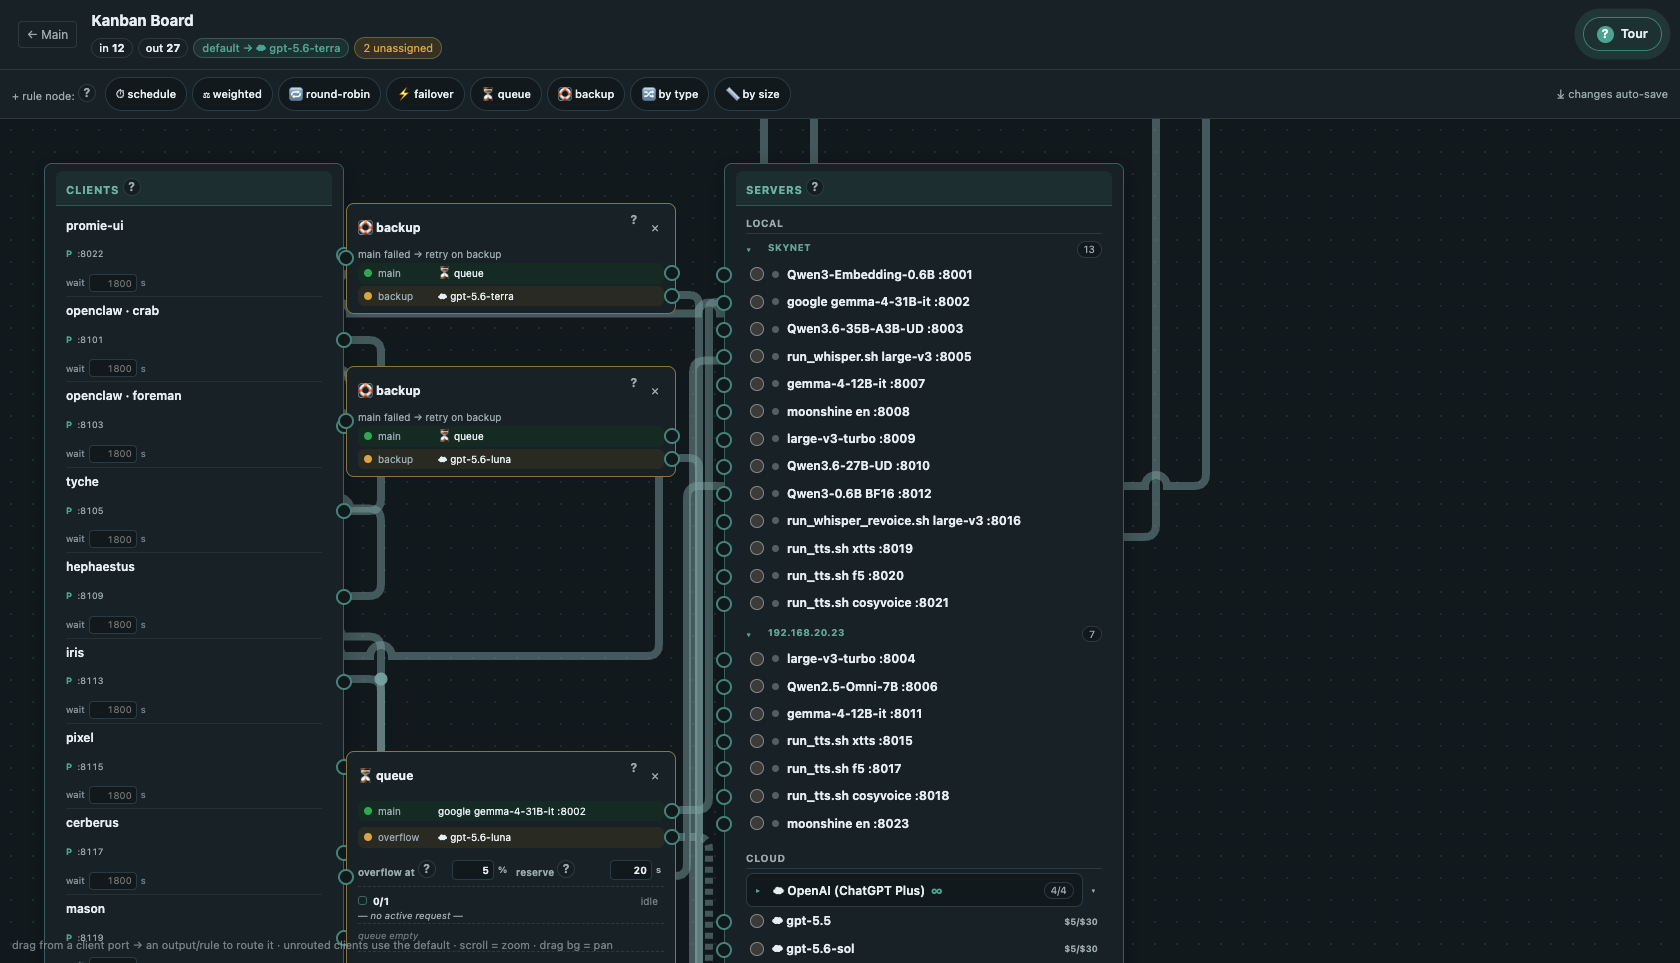
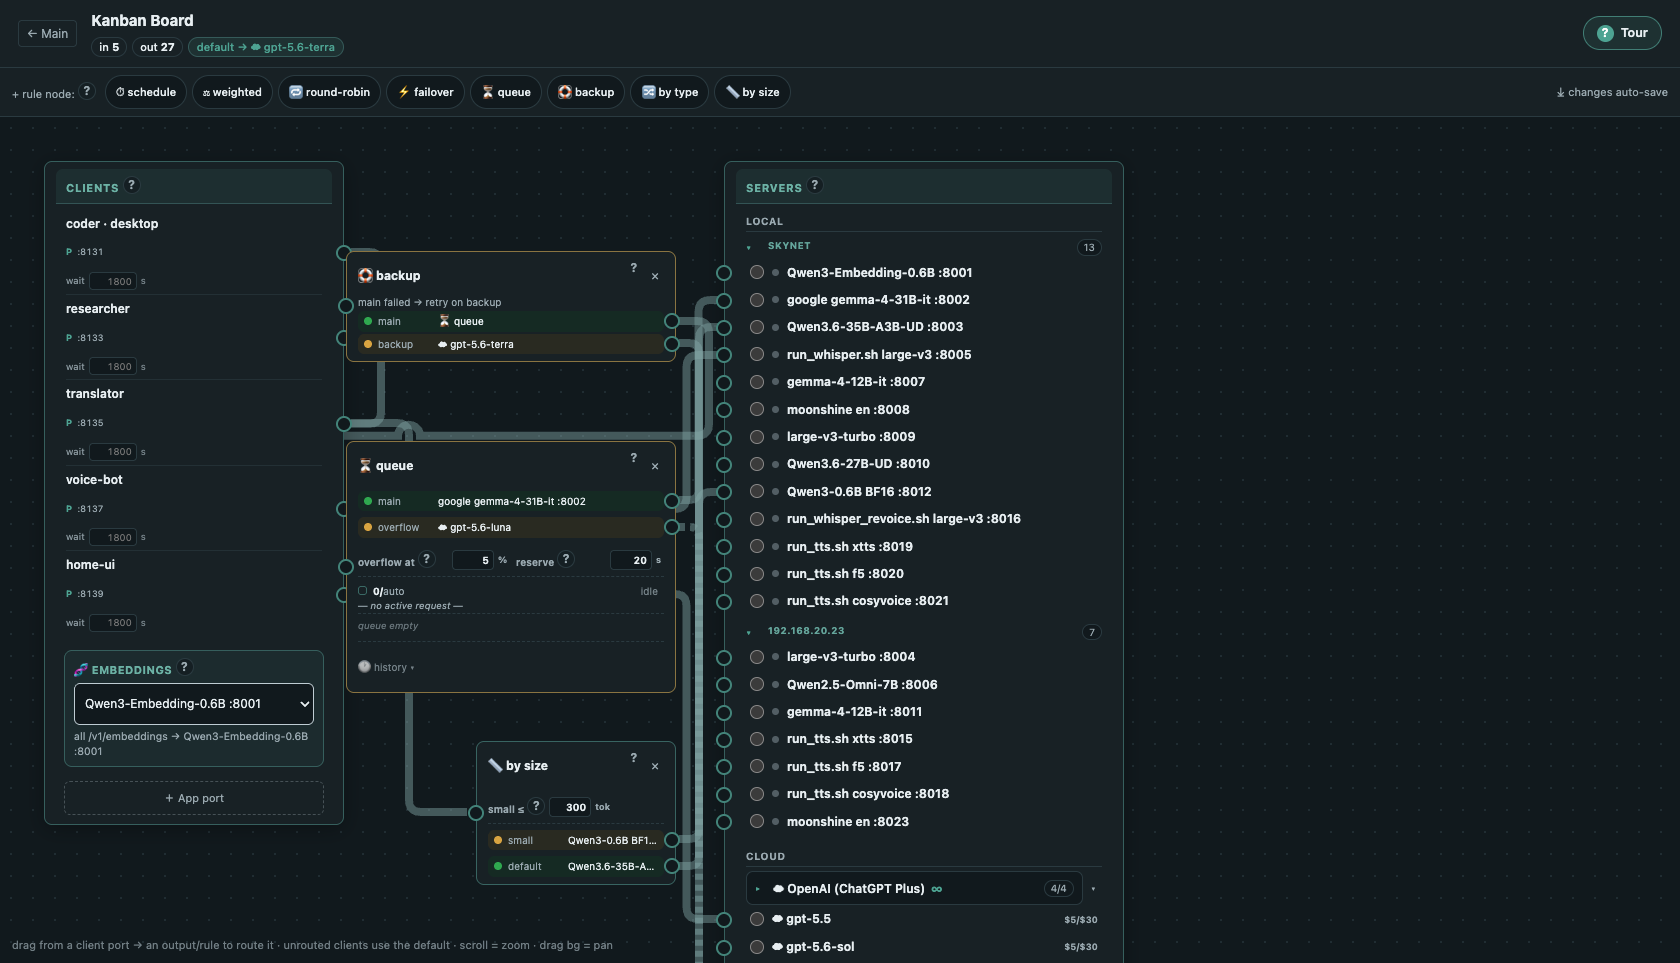
v1.3.104: staged example kanban for the README
The prod kanban screenshot carried twelve agents and twenty-seven outputs — an
unreadable first impression. Replaced with a staged compact fleet: five agents
(coder, researcher, translator, voice-bot, home-ui), backup + queue + by-size
rule nodes, local cells and cloud models as outputs.

diff --git a/caravan/__init__.py b/caravan/__init__.py
@@ -1,3 +1,3 @@
 """LAMA CARAVAN — fleet control plane for llama.cpp servers and AI agents."""
 
-__version__ = "1.3.103"
+__version__ = "1.3.104"

diff --git a/README.md b/README.md
@@ -148,8 +148,9 @@ border comet as its card on the board:
 
 ![Cell editor](docs/screenshots/editor.png)
 
-The routing kanban — agents on the left, rule nodes (schedule / queue /
-failover / backup / by-type / by-size) in the middle, local cells and cloud
+The routing kanban — a compact example fleet: agents on the left, rule nodes
+(backup / queue / by-size — schedule, weighted, round-robin, failover and
+by-type are one click away in the palette) in the middle, local cells and cloud
 models as outputs; stacked cables fan into parallel lanes so you can count the
 runs:
 